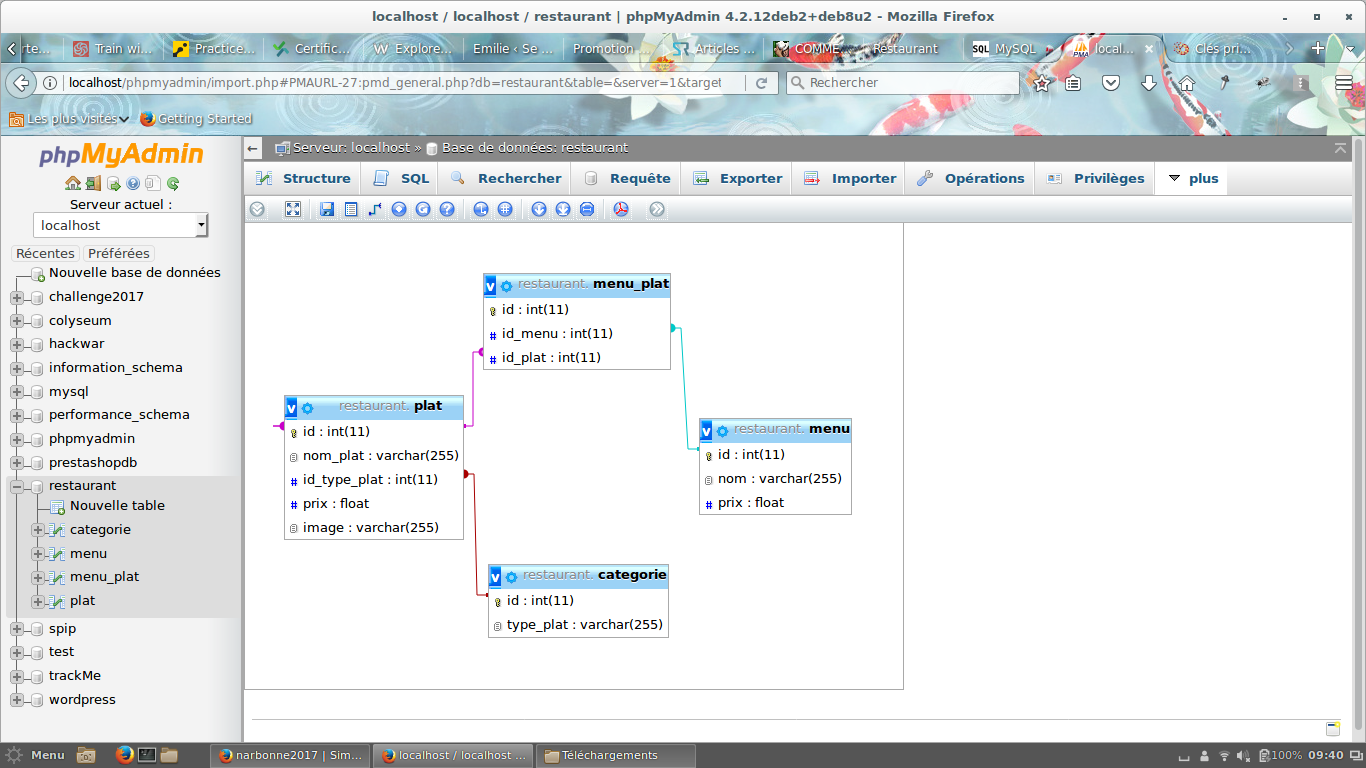
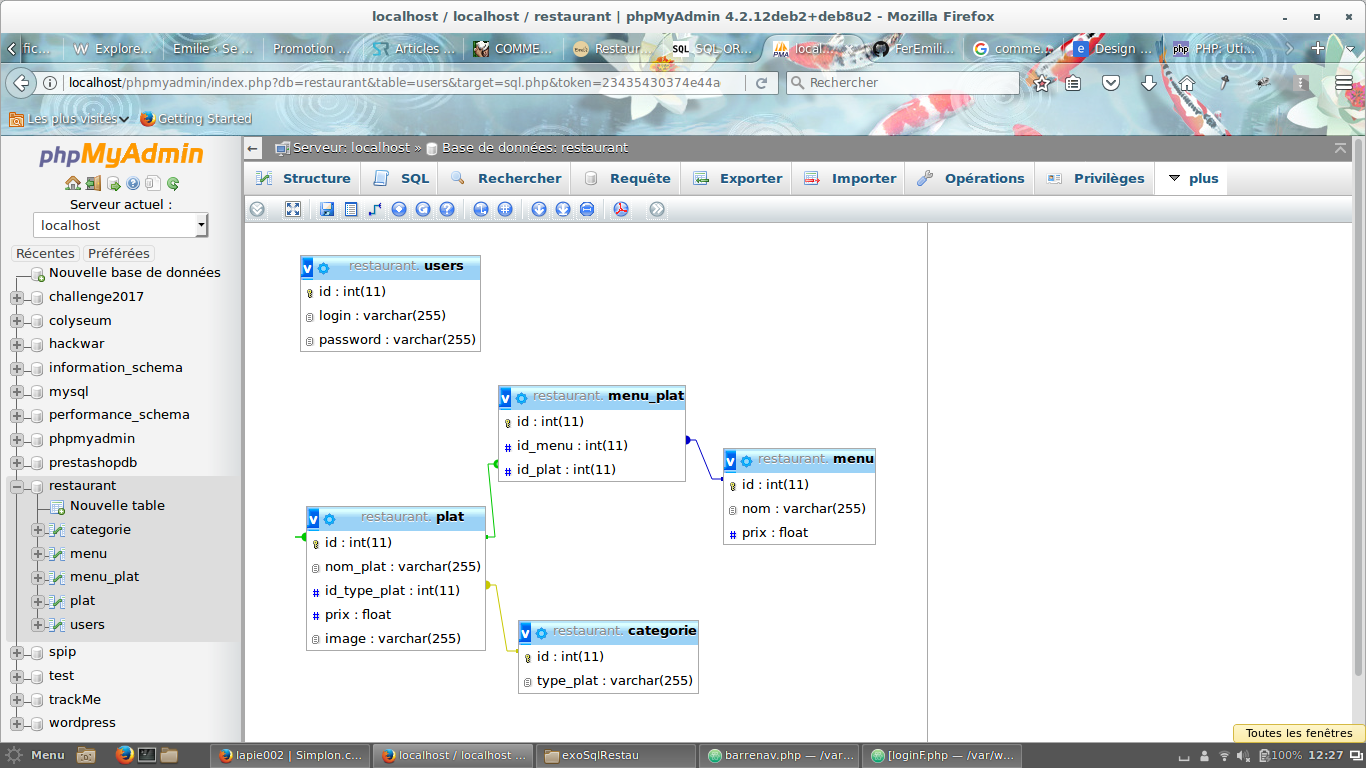
ajout d'une session d'admin

diff --git a/index.php b/index.php
@@ -1,4 +1,5 @@
 <?php
+session_start();
 include('include/header.php');
 include('include/barrenav.php');
  ?>
@@ -6,7 +7,7 @@ include('include/barrenav.php');
 <div class="accueil">
    <h1>Notre histoire...</h1>
    <p> Lorem ipsum dolor sit amet, consectetur adipiscing elit. Duis ac diam scelerisque, egestas diam a, suscipit felis. Suspendisse ultrices venenatis neque vel accumsan. Ut ante ante, euismod egestas ultricies eleifend, elementum eget orci. Nullam varius, magna ac scelerisque euismod, nunc sapien malesuada nulla, et pellentesque sapien felis at ligula. Nullam eget ornare justo, vitae blandit purus. Ut finibus mauris neque, interdum lacinia nunc viverra quis. In non efficitur nulla, vitae porttitor orci. Quisque pharetra mollis mauris quis rhoncus. Morbi congue dui aliquam velit rutrum, et egestas velit ultricies. Nullam molestie, purus vitae consequat interdum, mauris mauris accumsan lectus, at posuere urna urna id mi. Sed lacinia hendrerit enim, sed feugiat lectus accumsan at. Donec vestibulum malesuada metus, in euismod elit pharetra lobortis. Cras mi arcu, congue ut porta in, tempus quis arcu. Donec faucibus viverra suscipit. Nam neque diam, blandit at nisi eget, cursus egestas diam.</p>
- <a href="gestion.php"><img id="cuisine" src="assets/img/cuisine.jpg" alt="cuisine"></a>
+ <a href="login.php"><img id="cuisine" src="assets/img/cuisine.jpg" alt="cuisine"></a>
 </div>
 
 <?php

diff --git a/login.php b/login.php
@@ -1,0 +1,41 @@
+<?php
+session_start();
+ if (isset($_SESSION['login']) && $_SESSION['password']) {
+      session_start();
+      header('Location: gestion.php');
+ }
+
+include('include/header.php');
+include('include/barrenav.php');
+
+include("config/connection.php");
+
+$req = $bdd->prepare('SELECT password FROM users WHERE login = :login');
+$req->execute(array('login' => $_POST['login']));
+$result = $req->fetch(PDO::FETCH_ASSOC);
+$hash = $result['password'];
+$pass = $_REQUEST['password'];
+if(password_verify($pass, $hash)){
+echo 'mot de passe valide !';
+header('Location: gestion.php');
+}else{
+echo 'mot de passe invalide';
+}
+?>
+
+<div class="form">
+  <h1>Sign In</h1>
+  <form action="gestion.php" method="post">
+
+    <label class="label" for="login">Login</label>
+    <input class="input" type="text" name="login" size="50" maxlength="40" />
+
+    <label class="label" for="password">Password</label>
+    <input class="input" type="password" name="password" size="50" maxlength="40" />
+
+    <button id='btn'>Sign In</button>
+    </form>
+    </div>
+<?php
+include('include/footer.php');
+ ?>

diff --git a/gestion.php b/gestion.php
@@ -1,11 +1,18 @@
 <?php
+session_start();
+ if (!(isset($_SESSION['login']) && $_SESSION['password'])) {
+$_SESSION['login'] = $_POST['login'];
+$_SESSION['password'] = $_POST['password'];
+}
 include('include/header.php');
 include('include/barrenav.php');
- ?>
+ if (isset($_SESSION['login']) && $_SESSION['password']) {
+   echo '
 
 <div id="centrer">
   <h1>Gestionnaire du restaurant</h1>
   <p>Que voulez vous faire ?</p>
+  <p><a href="deconnection.php"> <button type="button" name="deco">Deconnexion</button> </a></p>
 </div>
 
     <div class="index">
@@ -19,7 +26,12 @@ include('include/barrenav.php');
         <p class="clair">Liste des menus <a class="link" href="menu.php">ici</a></p>
         <p class="clair">Liste des plats <a class="link" href="plat.php">ici</a></p>
       </div>
-    </div>
-<?php
+    </div>'
+;
+      }
+        else {
+          echo 'accès denied';
+        }
+
 include('include/footer.php');
  ?>

diff --git a/include/barrenav.php b/include/barrenav.php
@@ -1,8 +1,9 @@
+
 <div id="baniere">
  <ul>
    <li><a class=a href="index.php">Accueil</a></li>
-   <li><a class=a href="plat.php">Liste des plats</a></li>
-   <li><a class=a href="menu.php">Liste des menus</a></li>
-   <li><a class=a href="gestion.php">Gestionnaire du restaurant</a></li>
+   <li><a class=a href="login.php">Liste des plats</a></li>
+   <li><a class=a href="login.php">Liste des menus</a></li>
+   <li><a class=a href="login.php">Gestionnaire du restaurant</a></li>
  </ul>
 </div>

diff --git a/traitementAjout.php b/traitementAjout.php
@@ -1,5 +1,5 @@
 <?php
-	//----------------------- CONNEXION A LA BDD ------------------------
+session_start();
 	  include("config/connection.php");
 
     if (isset($_POST['checkbox'])){

diff --git a/traitementUpdate.php b/traitementUpdate.php
@@ -1,4 +1,5 @@
  <?php
+ session_start();
  include("config/connection.php");
  if (isset($_GET['id']) && !empty($_GET['id'])) {
   $id = $_GET['id'];

diff --git a/delete.php b/delete.php
@@ -1,4 +1,5 @@
 <?php
+session_start();
 include("config/connection.php");
 if (isset($_GET['id']) && !empty($_GET['id'])) {
  $id = $_GET['id'];

diff --git a/deleteMenu.php b/deleteMenu.php
@@ -1,4 +1,5 @@
 <?php
+session_start();
 include("config/connection.php");
 if (isset($_GET['id']) && !empty($_GET['id'])) {
  $id = $_GET['id'];

diff --git a/traitementUpdateMenu.php b/traitementUpdateMenu.php
@@ -1,4 +1,5 @@
 <?php
+session_start();
 include("config/connection.php");
 if (isset($_GET['id']) && !empty($_GET['id'])) {
  $id = $_GET['id'];

diff --git a/deconnection.php b/deconnection.php
@@ -1,0 +1,6 @@
+<?php
+session_start();
+$_SESSION = array();
+session_destroy();
+header("Location: index.php");
+?>

diff --git a/plat.php b/plat.php
@@ -1,4 +1,5 @@
  <?php
+ session_start();
  include('include/header.php');
  include('include/barrenav.php');
   ?>

diff --git a/traitement.php b/traitement.php
@@ -1,4 +1,5 @@
 <?php
+session_start();
 // Connexion à la base de données
 include("config/connection.php");
 
